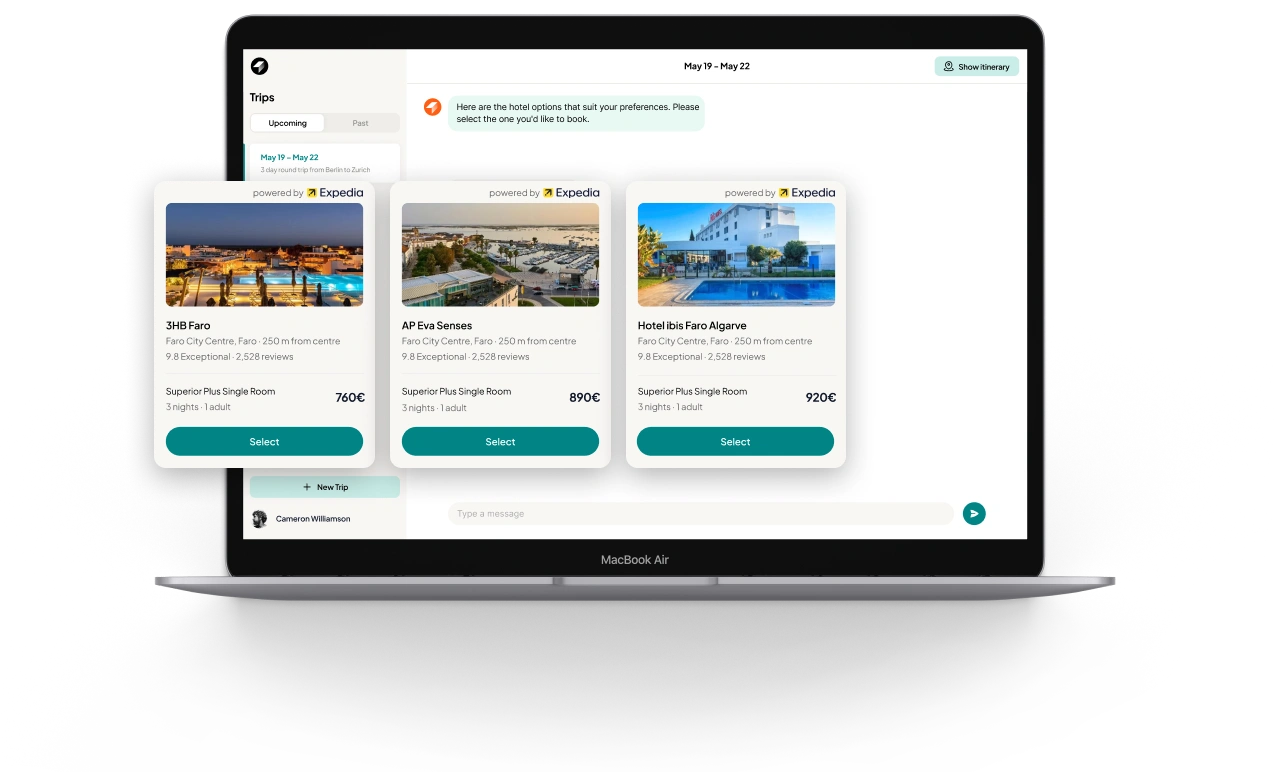
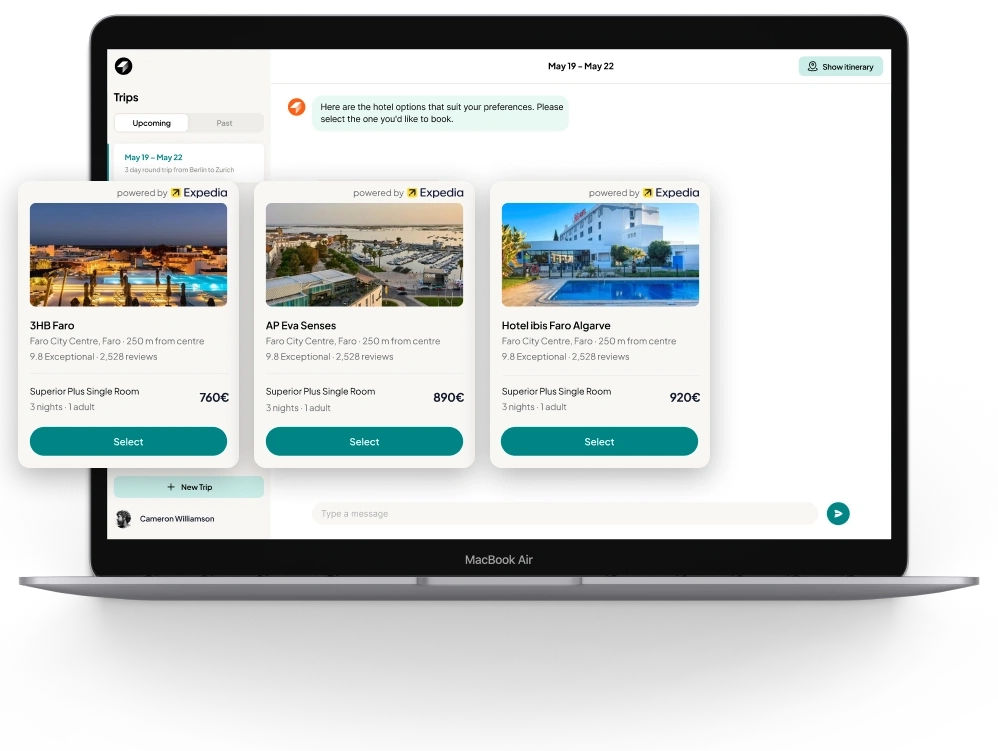
Update font

Changed region(s): [[0.0, 0.0, 0.994, 0.8881], [0.2796, 0.1225, 0.5591, 0.1838]]

diff --git a/components/travel-page/section-5.tsx b/components/travel-page/section-5.tsx
@@ -1,0 +1,63 @@
+import { useTranslations } from 'next-intl';
+import React, { FC, useState } from 'react';
+import ContentContainer from '../content-container';
+import Reveal from '../reveal';
+import Image from 'next/image';
+import CustomHeading2 from '../custom-heading-2';
+import icon from '@/public/travel-page/process-timeline-icon.png';
+import bg_top from '@/public/travel-page/section-3-bg-top.webp';
+import { cn } from '@/lib/utils';
+
+interface Props {}
+
+const Section5: FC<Props> = (props): JSX.Element => {
+  const t = useTranslations('travel_page.section_5');
+
+  return (
+    <>
+      <div className="h-[100px] bg-gradient-to-b from-white to-[#EFEFF0]"></div>
+      <section
+        id={t('id')}
+        className="bg-[url('/travel-page/section-5-bg.webp')] bg-no-repeat bg-center py-[15%] bg-cover relative"
+      >
+        <div className="absolute bottom-0 inset-x-0 aspect-[12]">
+          <Image
+            src={bg_top}
+            alt="Section 5 background bottom"
+            fill
+            sizes="100vw"
+            className="object-cover"
+          />
+        </div>
+
+        <div className="relative z-[10]">
+          <ContentContainer>
+            <CustomHeading2 t={t} type_6 customClassname="text-center" />
+
+            <Reveal customClassname="flex items-center gap-10">
+              <div className="w-[40%]">
+                <p className="font-bold text-2xl mb-2">{t('reason_1.heading')}</p>
+                <p className="text-sm leading-7">{t('reason_1.description')}</p>
+              </div>
+
+              <Image src={icon} alt="Icon 1" className="mt-6" />
+            </Reveal>
+
+            <Reveal customClassname="flex items-center gap-10">
+              <div className="w-1/2">
+                <Image src={icon} alt="Icon 1" className="mt-20 ml-auto rotate-x-[180deg]" />
+              </div>
+
+              <div className="flex-1">
+                <p className="font-bold text-2xl mb-2">{t('reason_1.heading')}</p>
+                <p className="text-sm leading-7">{t('reason_1.description')}</p>
+              </div>
+            </Reveal>
+          </ContentContainer>
+        </div>
+      </section>
+    </>
+  );
+};
+
+export default Section5;

diff --git a/app/[locale]/layout.tsx b/app/[locale]/layout.tsx
@@ -1,5 +1,5 @@
 import type { Metadata } from 'next';
-import { Nunito } from 'next/font/google';
+import { Mulish } from 'next/font/google';
 import '@/app/css/prism.css';
 import '@/app/css/globals.css';
 import { cn } from '@/lib/utils';
@@ -9,10 +9,10 @@ import { unstable_setRequestLocale } from 'next-intl/server';
 import dynamic from 'next/dynamic';
 const CrispChat = dynamic(() => import('@/components/crisp-chat'), { ssr: false });
 
-const nunito = Nunito({
+const mulish = Mulish({
   subsets: ['latin'],
   weight: ['300', '400', '500', '600', '700', '800'],
-  variable: '--font-nunito',
+  variable: '--font-mulish',
   fallback: ['Helvetica', 'Arial', 'sans-serif'],
 });
 
@@ -40,7 +40,7 @@ export default function RootLayout({
       <link rel="apple-touch-icon" sizes="76x76" href="/static/favicons/apple-touch-icon.png" />
       <link rel="icon" type="image/png" sizes="32x32" href="/static/favicons/favicon-32x32.png" />
       <link rel="icon" type="image/png" sizes="16x16" href="/static/favicons/favicon-16x16.png" />
-      <body className={cn(nunito.className, 'antialiased')}>
+      <body className={cn(mulish.className, 'antialiased')}>
         <NextIntlClientProvider locale={locale} messages={messages}>
           <div className="flex h-screen flex-col justify-between">
             <div className="mb-auto">{children}</div>

diff --git a/app/[locale]/(public-pages)/thiet-ke-website-du-lich/page.tsx b/app/[locale]/(public-pages)/thiet-ke-website-du-lich/page.tsx
@@ -5,6 +5,7 @@ import dynamic from 'next/dynamic';
 const Section2 = dynamic(() => import('@/components/travel-page/section-2'));
 const Section3 = dynamic(() => import('@/components/travel-page/section-3'));
 const Section4 = dynamic(() => import('@/components/travel-page/section-4'));
+const Section5 = dynamic(() => import('@/components/travel-page/section-5'));
 
 interface Props {
   params: {
@@ -22,6 +23,7 @@ const Page: NextPage<Props> = ({ params: { locale } }: Props) => {
       <Section2 />
       <Section3 />
       <Section4 />
+      <Section5 />
     </main>
   );
 };
